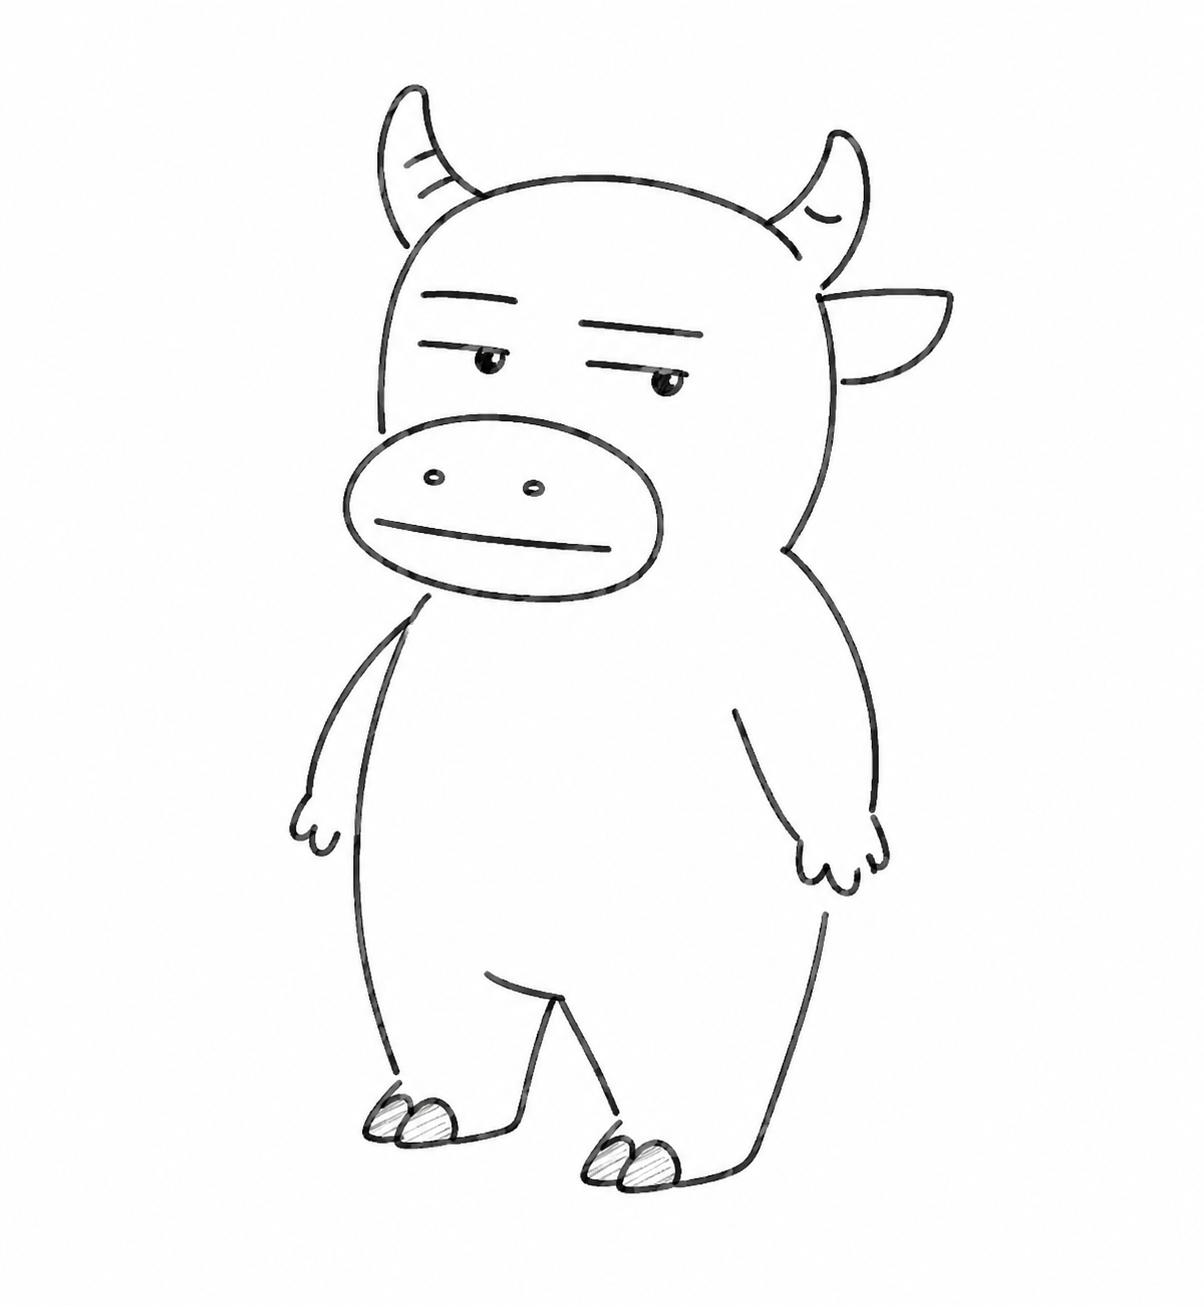
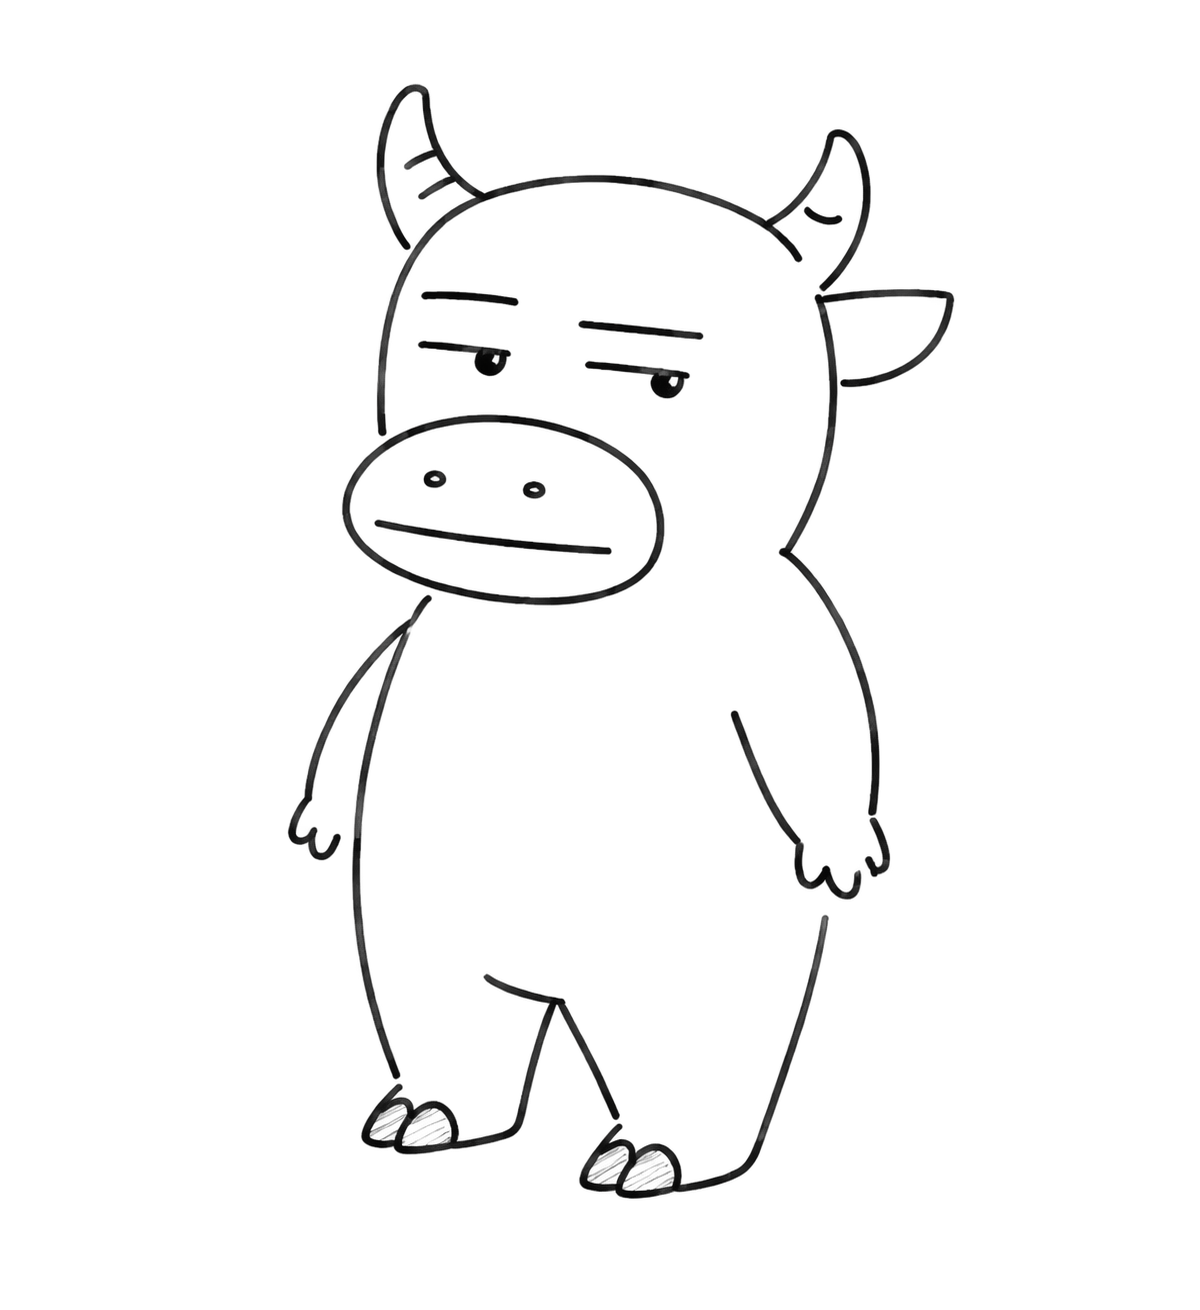
Polish homepage title and sharing

diff --git a/app/[locale]/toy.tsx b/app/[locale]/toy.tsx
@@ -141,34 +141,43 @@ export function NiuLaiToy({ locale, copy }: Props) {
     return { url, text };
   }
 
-  async function copyShareText() {
-    const { text } = sharePayload();
-    if (navigator.clipboard) {
-      await navigator.clipboard.writeText(text);
-    } else {
-      const textarea = document.createElement("textarea");
-      textarea.value = text;
-      textarea.style.position = "fixed";
-      textarea.style.left = "-9999px";
-      document.body.appendChild(textarea);
-      textarea.focus();
-      textarea.select();
-      document.execCommand("copy");
-      textarea.remove();
+  async function writeClipboard(value: string) {
+    try {
+      if (navigator.clipboard) {
+        await navigator.clipboard.writeText(value);
+        return;
+      }
+    } catch {
+      // Fall through to the textarea-based fallback for non-secure contexts.
     }
+
+    const textarea = document.createElement("textarea");
+    textarea.value = value;
+    textarea.style.position = "fixed";
+    textarea.style.left = "-9999px";
+    document.body.appendChild(textarea);
+    textarea.focus();
+    textarea.select();
+    document.execCommand("copy");
+    textarea.remove();
+  }
+
+  function markCopied() {
     setCopied(true);
     window.setTimeout(() => setCopied(false), 1400);
   }
 
-  async function shareNative() {
-    const { url, text } = sharePayload();
+  async function copyShareLink() {
+    const { url } = sharePayload();
+    await writeClipboard(url);
+    markCopied();
+    setShareOpen(true);
+  }
 
-    if (navigator.share) {
-      await navigator.share({ title: copy.title, text, url }).catch(() => undefined);
-      return;
-    }
-
-    setShareOpen((value) => !value);
+  async function copyShareText() {
+    const { text } = sharePayload();
+    await writeClipboard(text);
+    markCopied();
   }
 
   function shareToX() {
@@ -221,11 +230,11 @@ export function NiuLaiToy({ locale, copy }: Props) {
             </div>
 
             <div className="share-box">
-              <button className="share-button" type="button" onClick={shareNative}>
-                {copy.share}
+              <button className="share-button" type="button" onClick={copyShareLink}>
+                {copied ? copy.copied : copy.share}
               </button>
               <div className={`share-menu ${shareOpen ? "is-open" : ""}`}>
-                <button type="button" onClick={copyShareText}>{copied ? copy.copied : copy.copyLink}</button>
+                <button type="button" onClick={copyShareLink}>{copy.copyLink}</button>
                 <button type="button" onClick={copyShareText}>{copy.shareWechat}</button>
                 <button type="button" onClick={shareToX}>{copy.shareX}</button>
                 <button type="button" onClick={copyShareText}>{copy.shareXhs}</button>

diff --git a/app/[locale]/page.tsx b/app/[locale]/page.tsx
@@ -5,7 +5,7 @@ const copy = {
   zh: {
     title: "牛来一下",
     eyebrow: "一按，牛来",
-    headline: "叫一声牛来",
+    headline: "牛来~~",
     subline: "点按钮，或者直接点这头牛。声音会来，运气也可以顺路来。",
     button: "叫“牛来”",
     tapCow: "牛也能点",

diff --git a/app/globals.css b/app/globals.css
@@ -249,6 +249,7 @@ h1 {
   font-size: clamp(54px, 8vw, 86px);
   line-height: 0.9;
   letter-spacing: 0;
+  white-space: nowrap;
   border-bottom: 4px solid var(--edge);
   transform: rotate(-2deg);
 }
